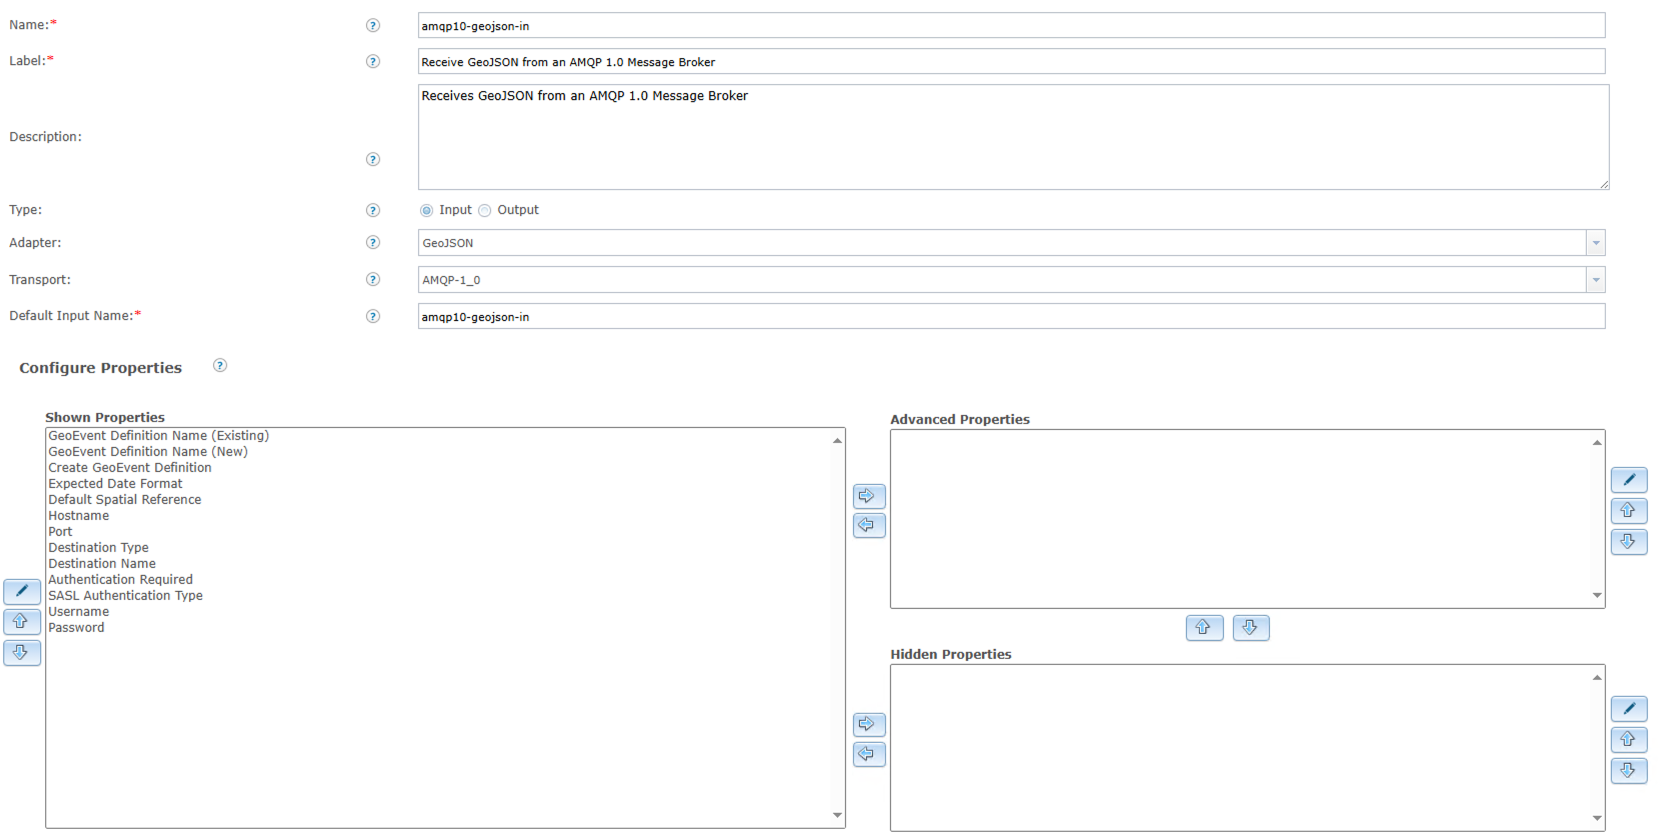
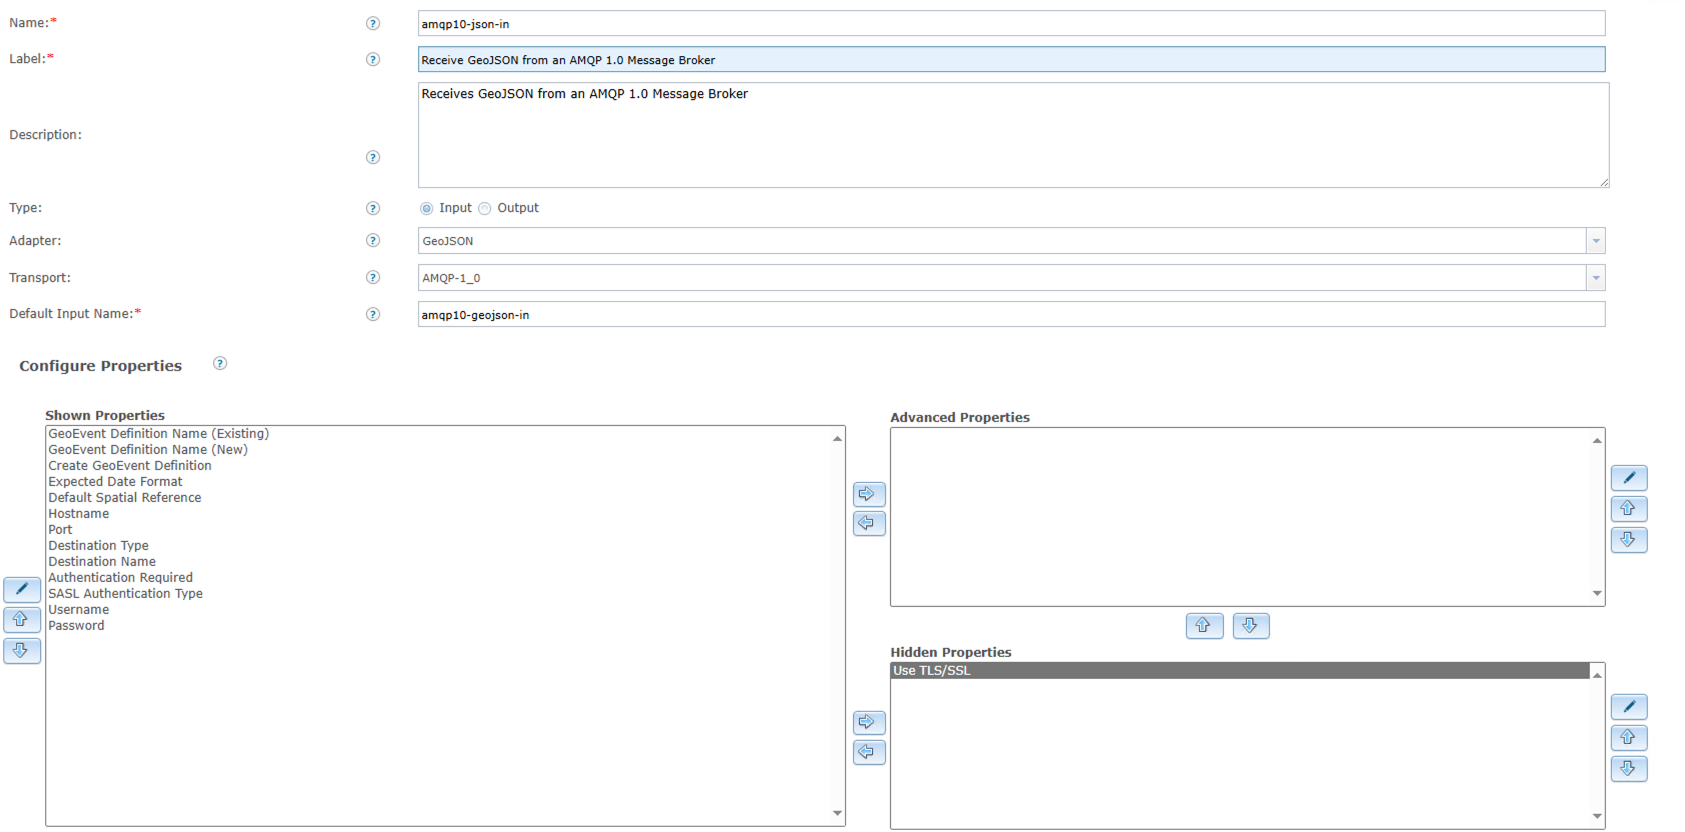
Adds documentation for the "use TLS/SSL" parameter and fixes a bug where reconfiguring a running input would not have any effect.

diff --git a/amqp10-transport/src/main/java/com/esri/geoevent/transport/amqp10/AMQP10InboundTransport.java b/amqp10-transport/src/main/java/com/esri/geoevent/transport/amqp10/AMQP10InboundTransport.java
@@ -68,7 +68,10 @@ public class AMQP10InboundTransport extends InboundTransportBase {
 
     @Override
     public void afterPropertiesSet() {
+        super.afterPropertiesSet();
+
         doStop();
+
         String password;
         try {
             password = getProperty("password").getDecryptedValue();
@@ -89,8 +92,6 @@ public class AMQP10InboundTransport extends InboundTransportBase {
         String destinationName = getProperty("destinationName").getValueAsString();
 
         destinationInfo = new AMQP10DestinationInfo(destinationType, destinationName);
-
-        super.afterPropertiesSet();
     }
 
     @Override
@@ -130,17 +131,17 @@ public class AMQP10InboundTransport extends InboundTransportBase {
     private synchronized void doStop(String reason) {
         setRunningState(RunningState.STOPPING);
         setErrorMessage(reason);
-        if (connectionService != null)
-            try {
-                connectionService.stop();
-            } finally {
-                connectionService = null;
-            }
         if (consumerService != null)
             try {
                 consumerService.stop();
             } finally {
                 consumerService = null;
+            }
+        if (connectionService != null)
+            try {
+                connectionService.stop();
+            } finally {
+                connectionService = null;
             }
         setRunningState(RunningState.STOPPED);
     }

diff --git a/README.md b/README.md
@@ -48,9 +48,9 @@ To deploy the transport and configure an input connector that uses the transport
     * Adapter: `GeoJSON`
     * Transport: `AMQP-1_0`
     * Default Input Name: `amqp10-geojson-in`
-    * Shown Properties: List all Properties
+    * Shown Properties: List all properties except for "Use TLS/SSL"
     * Advanced Properties: None
-    * Hidden Properties: None
+    * Hidden Properties: "Use TLS/SSL"
 7. Click on "Create". This will create the input connector.
 
 ![Create the AMQP 1.0 Inbound Connector](/assets/images/create_connector.png)
